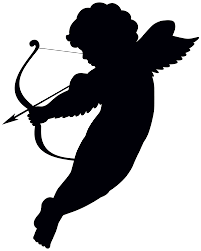
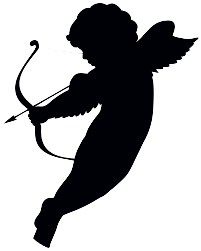
shadows

diff --git a/love.html b/love.html
@@ -61,11 +61,15 @@
 
 <body>
     <header style="background: #fff; border: 4px solid #000; box-shadow: 10px 10px 0 #ffb6c1; padding: 20px; margin: 20px auto; text-align: center; width: 50%;">
-        <h1>
-            <span style="color: #999;">♥</span>
-            <span style="color: #ffb6c1;">BE MINE</span>
-            <span style="color: #999;">♥</span>
-        </h1>
+        <div style="display: flex; align-items: center; justify-content: space-between; gap: 20px;">
+            <img src="cupid2.png" alt="cupid" style="width: 80px; height: auto; filter: drop-shadow(3px 3px 0 #999);">
+            <h1>
+                <span style="color: #999;">♥</span>
+                <span style="color: #ffb6c1;">BE MINE</span>
+                <span style="color: #999;">♥</span>
+            </h1>
+            <img src="cupid2.png" alt="cupid" style="width: 80px; height: auto; filter: drop-shadow(3px 3px 0 #999);">
+        </div>
     </header>
 
     <div style="text-align: right; margin: 30px 300px;">

diff --git a/style.css b/style.css
@@ -153,6 +153,7 @@ h1 {
     height: auto;
     vertical-align: middle;
     margin: 0 20px;
+    filter: drop-shadow(3px 3px 0 #ffb6c1);
 }
 
 .header-content {
@@ -170,7 +171,7 @@ h1 {
     width: 400px;
     padding: 0;
     margin: 100px 20px 0 20px;
-    box-shadow: 10px 10px 0 #999;
+    box-shadow: 10px 10px 0 #bbb;
     min-height: 250px;
 }
 
